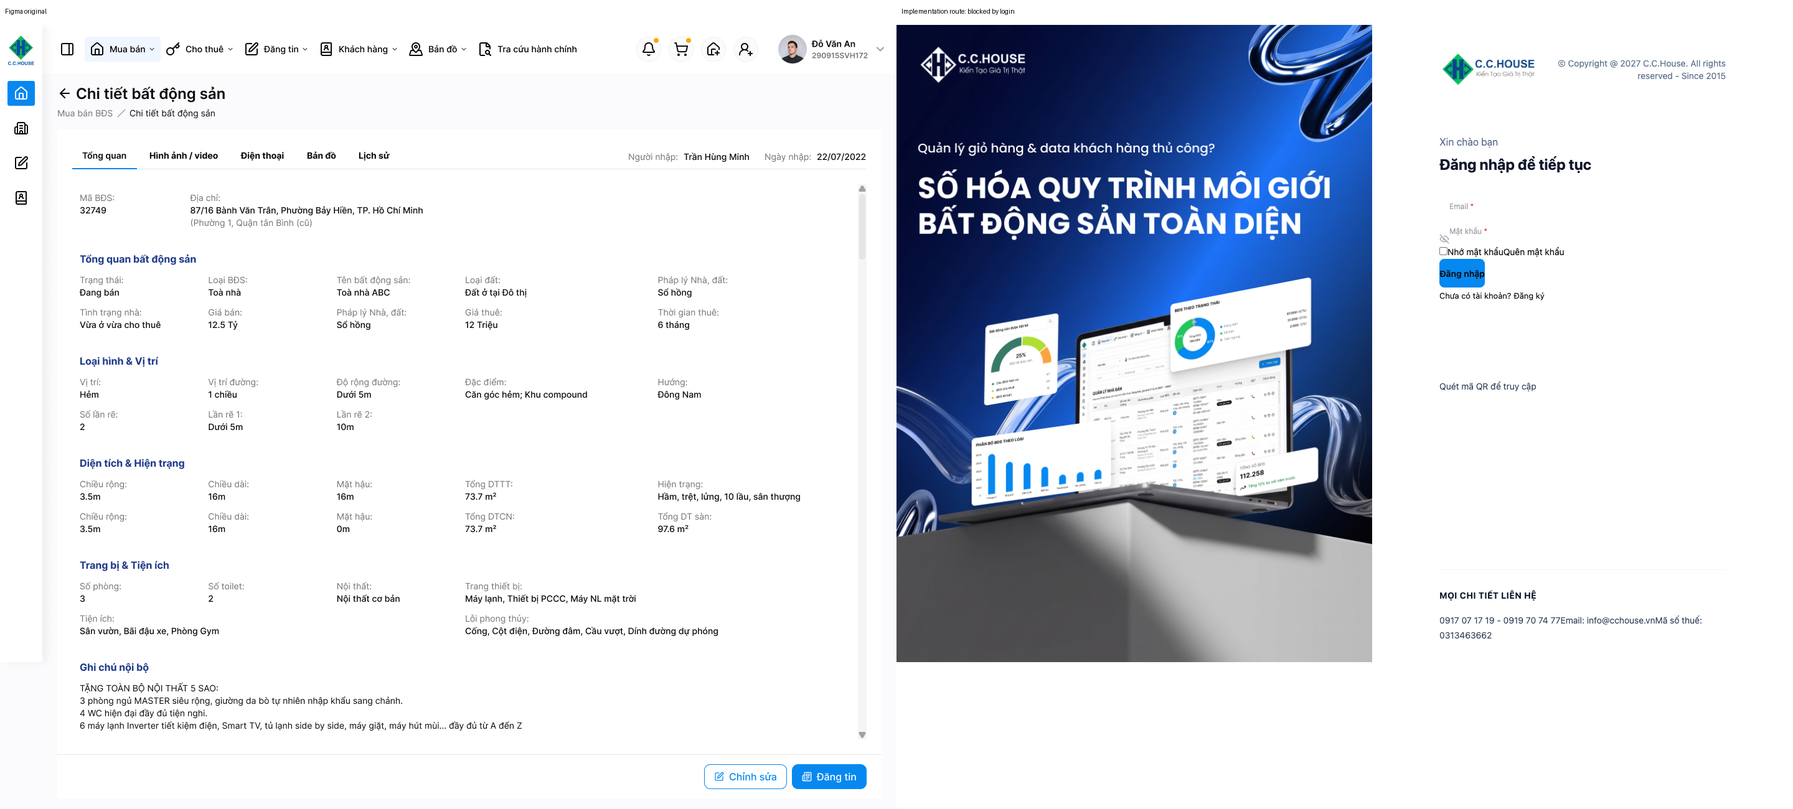
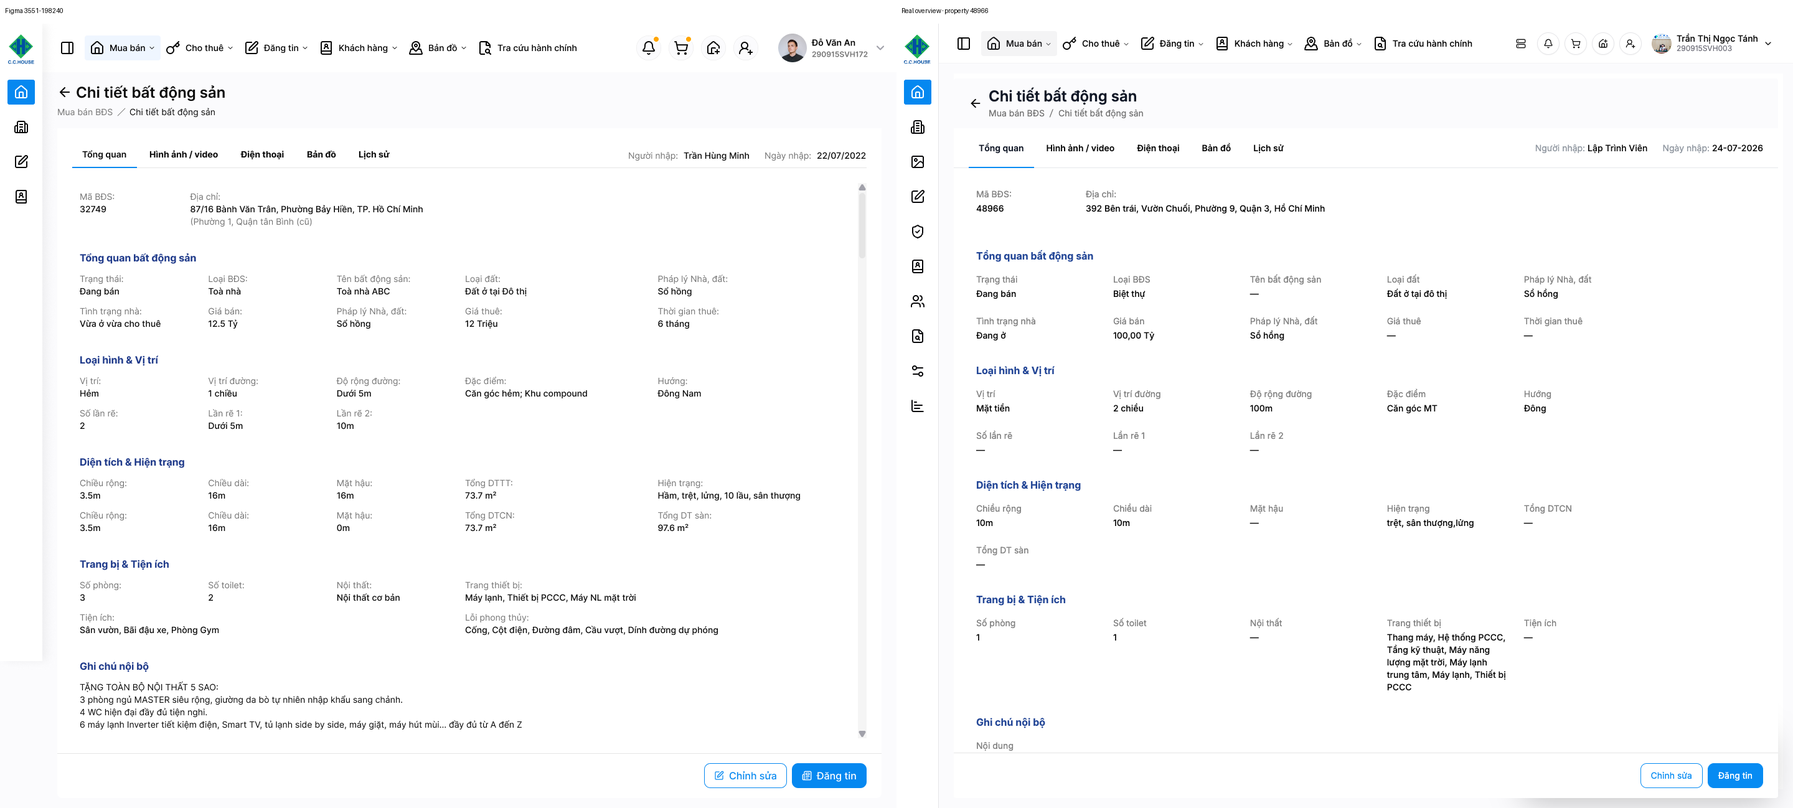
Deploy 23-11-2026 01:28:28

diff --git a/src/lib/components/admin/property/detail-dialog/index.tsx b/src/lib/components/admin/property/detail-dialog/index.tsx
@@ -1,13 +1,11 @@
 import { Modal as LucideModal } from "@/lib/components/antd-lucide";
 import {Alert as LucideAlert } from "@/lib/components/antd-lucide";
-import { Spin } from "antd";
+import { Spin, Tooltip } from "antd";
 import { ArrowLeft, X } from "lucide-react";
 import { useRouter } from "next/navigation";
-import { useSession } from "next-auth/react";
 import { useEffect, useState, type ReactNode } from "react";
 import ReactPlayer from "react-player";
 
-import RenderPhone from "@/lib/components/shared/CustomRender/RenderPhone";
 import HistoryTree from "@/lib/components/shared/HistoryTree";
 import ImagesPreview from "@/lib/components/shared/ImagesPreview";
 import { ETableName } from "@/lib/core/enum";
@@ -17,7 +15,10 @@ import type { IPropResponse } from "@/lib/interfaces/Property/IProp";
 import imagesApi from "@/services/api/imagesApi";
 import { fileServices } from "@/services/api/services/fileServices";
 import PropertyMap from "@/lib/pages/property/prop-detail/components/property-map";
+import ContactSection from "@/lib/pages/property/prop-detail/components/contact-section";
 import WarehouseSection from "@/lib/pages/property/prop-detail/components/warehouse-section";
+import { getEnumName } from "@/lib/pages/property/prop-detail/detail-utils";
+import { useAdminContext } from "@/lib/stored";
 import { AppRoutes } from "@/lib/core/configs/appRoutes";
 import "@/lib/pages/property/prop-detail/property-detail.css";
 import "./property-detail-dialog.css";
@@ -87,17 +88,10 @@ const PropertyDetailDialog = ({
   onEdit,
 }: Prop) => {
   const router = useRouter();
-  const { data: session } = useSession();
+  const { enumList } = useAdminContext();
   const [images, setImages] = useState<IMyUploadFile[]>([]);
   const [activeTab, setActiveTab] = useState<DetailTab>("overview");
   const propAddress = data?.PropAddress;
-  const canViewPhone =
-    Boolean(data) && (
-      [1, 2].includes(session?.user.RoleId ?? 0) ||
-      session?.user.Id === data?.UserAdminId ||
-      !data?.IsHidePhone
-    );
-  const phones = data?.CustomerPhone?.toString().split(",").filter(Boolean) ?? [];
 
   useEffect(() => {
     let active = true;
@@ -185,7 +179,7 @@ const PropertyDetailDialog = ({
       ) : data && propAddress ? (
       <div className="property-detail-dialog">
         <header className="property-detail-dialog-header">
-          <button type="button" onClick={onClose} aria-label="Quay lại danh sách"><ArrowLeft size={22} /></button>
+          <Tooltip title="Quay lại danh sách"><button type="button" onClick={onClose} aria-label="Quay lại danh sách"><ArrowLeft size={22} /></button></Tooltip>
           <div><h2>Chi tiết bất động sản</h2><span>Mua bán BĐS ／ Chi tiết bất động sản</span></div>
         </header>
 
@@ -221,26 +215,28 @@ const PropertyDetailDialog = ({
                 fields={[
                   { label: "Trạng thái", value: data.StatusName },
                   { label: "Loại BĐS", value: propAddress.PropTypeName },
+                  { label: "Tên bất động sản", value: propAddress.PropName },
+                  { label: "Loại đất", value: getEnumName(enumList.UsageLaw, propAddress.UsageLaw) },
+                  { label: "Pháp lý Nhà, đất", value: propAddress.DisplayLaws },
                   { label: "Tình trạng nhà", value: propAddress.StatusUsageName },
                   { label: data.TransType === 2 ? "Giá thuê" : "Giá bán", value: data.DisplayPrice },
-                  { label: "Diện tích", value: data.Area ? `${data.Area}m²` : undefined },
-                  { label: "Vị trí", value: propAddress.LocationName },
-                  { label: "Tên bất động sản", value: propAddress.PropName },
+                  { label: "Pháp lý Nhà, đất", value: propAddress.DisplayLaws },
+                  { label: "Giá thuê", value: propAddress.DisplayPriceForRent },
+                  { label: "Thời gian thuê", value: propAddress.EndTimeRent },
                 ]}
               />
 
               <DetailSection
                 title="Loại hình & Vị trí"
                 fields={[
-                  { label: "Đặc điểm", value: propAddress.LocationFeatureName },
-                  { label: "Độ rộng đường", value: propAddress.StreetWidth ? `${propAddress.StreetWidth}m` : undefined },
-                  { label: "Cách mặt tiền", value: propAddress.DistanceToFont ? `${propAddress.DistanceToFont}m` : undefined },
+                  { label: "Vị trí", value: propAddress.LocationName },
                   { label: "Vị trí đường", value: propAddress.IsOneWay ? "1 chiều" : "2 chiều" },
+                  { label: "Độ rộng đường", value: propAddress.StreetWidth ? `${propAddress.StreetWidth}m` : undefined },
+                  { label: "Đặc điểm", value: propAddress.LocationFeatureName },
                   { label: "Hướng", value: propAddress.DirectionName },
                   { label: "Số lần rẽ", value: propAddress.AlleyTurns },
-                  { label: "Lân cận", value: propAddress.AlleyValues },
-                  { label: "Loại đất", value: propAddress.UsageLaw },
-                  { label: "Pháp lý nhà, đất", value: propAddress.DisplayLaws },
+                  { label: "Lần rẽ 1", value: propAddress.AlleyValues?.[0] },
+                  { label: "Lần rẽ 2", value: propAddress.AlleyValues?.[1] },
                 ]}
               />
 
@@ -264,8 +260,6 @@ const PropertyDetailDialog = ({
                   { label: "Nội thất", value: data.Furniture },
                   { label: "Trang thiết bị", value: data.DisplayEquipments },
                   { label: "Tiện ích", value: data.DisplayUtilities },
-                  { label: "Giá thuê", value: propAddress.DisplayPriceForRent },
-                  { label: "Thời gian thuê", value: propAddress.EndTimeRent },
                 ]}
               />
 
@@ -291,20 +285,17 @@ const PropertyDetailDialog = ({
 
           {activeTab === "phone" && (
             <DetailSection title="Liên hệ">
-              <div className="property-detail-dialog-phone">
-                {canViewPhone ? (
-                  phones.length ? <RenderPhone phones={phones} /> : <span>Chưa có số điện thoại</span>
-                ) : (
-                  <span>SĐT đang bị ẩn, vui lòng liên hệ quản lý</span>
-                )}
+              <div className="property-detail property-detail-dialog-phone">
+                <ContactSection data={data} />
+                <div className="pd-contact-row"><span className="pd-label">Hoa hồng</span><span className="pd-value">{display(data.Commission) || "—"}</span></div>
+                <WarehouseSection data={data} defaultExpanded compact />
               </div>
-              <WarehouseSection data={data} />
             </DetailSection>
           )}
 
           {activeTab === "map" && (
             <DetailSection title="Bản đồ xem vị trí">
-              <PropertyMap data={data} height={568} />
+              <div className="property-detail"><PropertyMap data={data} height={568} /></div>
             </DetailSection>
           )}
 

diff --git a/src/lib/components/admin/property/detail-dialog/property-detail-dialog.css b/src/lib/components/admin/property/detail-dialog/property-detail-dialog.css
@@ -1,6 +1,6 @@
 /* Property detail overlay follows Figma node 2350-128765. */
 .property-detail-dialog-root .ant-modal-mask {
-  background: rgba(17, 24, 39, 0.34) !important;
+  background: transparent !important;
 }
 
 .property-detail-dialog-modal {
@@ -243,11 +243,14 @@
   .property-detail-dialog-toolbar {
     flex-direction: column;
     gap: 0;
+    min-height: 0;
     padding: 0 12px 8px;
   }
 
   .property-detail-dialog-tabs {
     gap: 8px;
+    min-height: 48px;
+    flex-shrink: 0;
     overflow-x: auto;
   }
 
@@ -280,11 +283,11 @@
 }
 
 /* Full detail states from the property design frames. */
-.property-detail-dialog-modal { top: 88px; width: calc(100vw - 116px) !important; max-width: 1324px; }
-.property-detail-dialog-modal .ant-modal-content { max-height: calc(100dvh - 104px); border-radius: 4px; box-shadow: none; }
-.property-detail-dialog-modal .ant-modal-body { max-height: calc(100dvh - 104px); }
+.property-detail-dialog-modal { top: 88px; width: calc(100vw - 116px) !important; max-width: 1324px; margin-left: 92px; }
+.property-detail-dialog-modal .ant-modal-content { height: calc(100dvh - 104px); max-height: calc(100dvh - 104px); border-radius: 4px; box-shadow: none; }
+.property-detail-dialog-modal .ant-modal-body { height: 100%; max-height: calc(100dvh - 104px); }
 .property-detail-dialog-modal .ant-modal-close { display: none; }
-.property-detail-dialog { max-height: calc(100dvh - 104px); color: #0a0a0a; }
+.property-detail-dialog { height: 100%; max-height: calc(100dvh - 104px); color: #0a0a0a; }
 .property-detail-dialog-header { min-height: 80px; padding: 12px 24px; gap: 10px; background: #fbfbfd; border: 0; }
 .property-detail-dialog-header button { border: 0; background: transparent; cursor: pointer; padding: 0; }
 .property-detail-dialog-header h2 { font-size: 24px; line-height: 32px; font-weight: 600; }
@@ -301,21 +304,36 @@
 .property-detail-dialog-scroll { flex: 1 1 auto; max-height: none; padding: 36px; }
 .property-detail-dialog-overview { gap: 34px; }
 .property-detail-dialog-section h3 { color: #244797; font-size: 16px; line-height: 24px; margin-bottom: 16px; }
-.property-detail-dialog-grid { width: 100%; grid-template-columns: repeat(5,minmax(0,1fr)); column-gap: 24px; row-gap: 24px; }
+.property-detail-dialog-grid { width: 100%; grid-template-columns: repeat(4,minmax(0,1fr)) minmax(0,1.9fr); column-gap: 24px; row-gap: 24px; }
 .property-detail-dialog-footer { display: flex; justify-content: flex-end; gap: 8px; padding: 16px 24px; border-top: 1px solid #e5e5e5; }
+.property-detail-dialog-header, .property-detail-dialog-toolbar, .property-detail-dialog-summary, .property-detail-dialog-footer { flex-shrink: 0; }
 .property-detail-dialog-footer button { border: 1px solid #078bf2; border-radius: 10px; color: #078bf2; background: #fff; padding: 8px 16px; cursor: pointer; }
 .property-detail-dialog-footer button:last-child { color: #fff; background: #078bf2; }
-.property-detail-dialog-phone { font-size: 14px; }
+.property-detail-dialog-phone { display: grid; grid-template-columns: 340px 1fr; gap: 12px 16px; font-size: 14px; }
+.property-detail-dialog-phone > div:first-child { display: contents; }
+.property-detail-dialog-phone > div:first-child .pd-contact-row:first-child { grid-column: 1; grid-row: 1; }
+.property-detail-dialog-phone > div:first-child .pd-contact-row:nth-child(2) { grid-column: 1 / -1; grid-row: 2; }
+.property-detail-dialog-phone > .pd-contact-row { grid-column: 2; grid-row: 1; }
+.property-detail-dialog-phone > .pd-warehouse { grid-column: 1 / -1; grid-row: 3; }
 .property-detail-dialog-history { font-size: 14px; }
-.property-detail-dialog-grid:has(.pd-map-frame), .property-detail-dialog-grid:has(.pd-warehouse) { display: block; }
+.property-detail-dialog .pd-map-box { top: 160px; left: 8px; width: min(90%, 376px); transform: none; }
+.property-detail-dialog-grid:has(.pd-map-frame), .property-detail-dialog-grid:has(.pd-warehouse), .property-detail-dialog-grid:has(.property-detail-dialog-history) { display: block; }
 @media (max-width: 767px) {
   .property-detail-dialog-modal { top: 0; width: 100vw !important; max-width: 100vw; margin: 0; }
+  .property-detail-dialog-root .ant-modal-mask { background: rgba(0,0,0,.3) !important; }
   .property-detail-dialog-modal .ant-modal-content, .property-detail-dialog-modal .ant-modal-body, .property-detail-dialog { max-height: 100dvh; }
   .property-detail-dialog-header { min-height: 70px; padding: 10px 16px; }
   .property-detail-dialog-header h2 { font-size: 18px; line-height: 26px; }
-  .property-detail-dialog-toolbar { padding: 0 12px 8px; }
+  .property-detail-dialog-toolbar { min-height: 0; height: auto; flex-direction: column; align-items: stretch; padding: 0 12px 8px; }
+  .property-detail-dialog-tabs { min-height: 48px; flex-shrink: 0; }
   .property-detail-dialog-tabs button { padding: 8px; }
+  .property-detail-dialog-audit { min-height: 24px; gap: 4px 12px; flex-wrap: wrap; font-size: 11px; }
   .property-detail-dialog-summary { grid-template-columns: 90px 1fr; padding: 20px 16px; }
   .property-detail-dialog-scroll { padding: 20px 16px; }
   .property-detail-dialog-grid { grid-template-columns: repeat(2,minmax(0,1fr)); gap: 16px; }
+  .property-detail-dialog-phone { grid-template-columns: 1fr; }
+  .property-detail-dialog-phone > div:first-child .pd-contact-row:first-child,
+  .property-detail-dialog-phone > div:first-child .pd-contact-row:nth-child(2),
+  .property-detail-dialog-phone > .pd-contact-row,
+  .property-detail-dialog-phone > .pd-warehouse { grid-column: 1; grid-row: auto; }
 }

diff --git a/src/lib/pages/property/prop-detail/components/warehouse-section.tsx b/src/lib/pages/property/prop-detail/components/warehouse-section.tsx
@@ -1,7 +1,7 @@
 "use client";
 import { Collapse as LucideCollapse } from "@/lib/components/antd-lucide";
+import { Table } from "antd";
 
-import { Collapse } from "antd";
 import Link from "next/link";
 import { useEffect, useState } from "react";
 import PropertySubTable from "@/lib/components/admin/property/table/subTable";
@@ -12,9 +12,11 @@ import propertyApi from "@/services/api/property/propertyApi";
 
 type Props = {
   data: IPropResponse;
+  defaultExpanded?: boolean;
+  compact?: boolean;
 };
 
-const WarehouseSection = ({ data }: Props) => {
+const WarehouseSection = ({ data, defaultExpanded = false, compact = false }: Props) => {
   const [propOfCustomer, setPropOfCustomer] = useState<IPropResponse[]>([]);
   const [loading, setLoading] = useState(false);
   const [totalRow, setTotalRow] = useState(0);
@@ -53,6 +55,7 @@ const WarehouseSection = ({ data }: Props) => {
       ghost
       size="small"
       className="pd-warehouse"
+      defaultActiveKey={defaultExpanded ? ["warehouse"] : []}
       items={[
         {
           key: "warehouse",
@@ -67,7 +70,23 @@ const WarehouseSection = ({ data }: Props) => {
             </Link>
           ),
           children: (
-            <PropertySubTable data={propOfCustomer} loading={loading} />
+            compact ? <Table
+              rowKey="Id"
+              dataSource={propOfCustomer}
+              loading={loading}
+              pagination={false}
+              scroll={{ x: 900 }}
+              columns={[
+                { title: "Mã", dataIndex: "Id", render: (id: number, record: IPropResponse) => <Link href={`${AppRoutes.property.url}/${id}?TransType=${record.TransType}`}>{id}</Link> },
+                { title: "Giá", dataIndex: "DisplayPrice" },
+                { title: "Địa chỉ", dataIndex: ["PropAddress", "DisplayAddress"] },
+                { title: "Loại BĐS", dataIndex: ["PropAddress", "PropTypeName"] },
+                { title: "Kết cấu", dataIndex: "CustomDisplayStructures" },
+                { title: "Diện tích", dataIndex: "Area", render: (area: number) => area ? `${area}m²` : "—" },
+                { title: "Vị trí", dataIndex: ["PropAddress", "LocationName"] },
+                { title: "Trạng thái", dataIndex: "StatusName" },
+              ]}
+            /> : <PropertySubTable data={propOfCustomer} loading={loading} />
           ),
         },
       ]}

diff --git a/src/lib/pages/property/prop-detail/components/property-map.tsx b/src/lib/pages/property/prop-detail/components/property-map.tsx
@@ -2,6 +2,7 @@
 
 import { Tag } from "antd";
 import { IPropResponse } from "@/lib/interfaces/Property/IProp";
+import { hasMapCoordinates } from "@/lib/core/utils/map-coordinates";
 import { formatPropertyAddress } from "../detail-utils";
 
 type Props = {
@@ -11,8 +12,10 @@ type Props = {
 
 const PropertyMap = ({ data, height = 420 }: Props) => {
   const placeId = data.PropAddress.PlaceId;
+  const { Lat, Lng } = data.PropAddress;
+  const hasCoordinates = hasMapCoordinates(data.PropAddress);
 
-  if (!placeId) {
+  if (!placeId && !hasCoordinates) {
     return (
       <span className="pd-empty-text block py-10 text-center">
         Chưa có vị trí bản đồ
@@ -20,13 +23,16 @@ const PropertyMap = ({ data, height = 420 }: Props) => {
     );
   }
 
+  // shortcut: OSM tiles differ from the design basemap; switch when a matching map source is configured.
   return (
     <div className="pd-map-frame relative">
       <iframe
         title={`map-${data.Id}`}
         height={height}
         width="100%"
-        src={`https://maps.goong.io/?pid=${placeId}`}
+        src={placeId
+          ? `https://maps.goong.io/?pid=${placeId}`
+          : `https://www.openstreetmap.org/export/embed.html?bbox=${Lng! - 0.015}%2C${Lat! - 0.015}%2C${Lng! + 0.015}%2C${Lat! + 0.015}&layer=mapnik&marker=${Lat}%2C${Lng}`}
         className="block border-0"
       />
       <div className="pd-map-box">

diff --git a/src/lib/pages/property/prop-detail/index.tsx b/src/lib/pages/property/prop-detail/index.tsx
@@ -60,7 +60,7 @@ const PropertyFormModal = ({
       return;
     }
 
-    setIsEditing(false);
+    setIsEditing(true);
 
     const fetchAccessInfo = async () => {
       setLoading(true);
@@ -137,6 +137,7 @@ const PropertyFormModal = ({
       open={open}
       width="95vw"
       className="property-detail-modal"
+      rootClassName="property-detail-form-root"
       style={{ top: 16, maxWidth: 1400 }}
       styles={{ body: { maxHeight: "calc(100vh - 180px)", overflowY: "auto" } }}
       onCancel={onClose}

diff --git a/src/lib/pages/property/prop-detail/property-detail.css b/src/lib/pages/property/prop-detail/property-detail.css
@@ -9,6 +9,10 @@
   overflow: hidden;
 }
 
+.property-detail-form-root .ant-modal-mask {
+  background: rgba(0, 0, 0, 0.4);
+}
+
 .property-detail-modal .ant-modal-header {
   padding: 16px 24px;
   margin-bottom: 0;

diff --git a/evidence/real-estate/report.md b/evidence/real-estate/report.md
@@ -2,26 +2,51 @@
 
 ## Changed files
 - `src/lib/components/admin/property/detail-dialog/index.tsx`: map tab, related properties, header, edit and post actions.
+- Contact tab now reuses the existing masked phone and reveal control, and displays the record's commission.
 - `src/lib/components/admin/property/detail-dialog/property-detail-dialog.css`: desktop and mobile detail layout.
 - `src/lib/pages/property/index.tsx`: opens the existing edit flow from the detail view.
 - `src/lib/pages/property/prop-detail/components/warehouse-section.tsx`: handles missing phone and failed related-property requests.
+- `src/lib/pages/property/prop-detail/index.tsx`: opens the edit form immediately after the edit action.
+- `src/lib/pages/property/prop-detail/components/property-map.tsx`: renders a coordinate map when a place ID is absent.
+- `src/lib/pages/property/prop-detail/property-detail.css`: gives the edit modal the Figma 40% scrim.
 
 ## Figma mapping
 - `3551:198240`: property detail overview → `PropertyDetailDialog` overview.
 - `3555:200946`: contact and related properties → phone tab and `WarehouseSection`.
 - `3555:202419`: location map → map tab and `PropertyMap`.
 - `3555:203007`: edit history → history tab and `HistoryTree`.
-- `2089:105771`, `3151:149405`: scrim primitives → modal mask.
-- `2163:122729`: tooltip instruction → existing icon labels; no standalone screen.
+- `2089:105771`: 40% scrim primitive → edit dialog mask, verified `rgba(0, 0, 0, 0.4)`.
+- `3151:149405`: 30% scrim primitive → history dialog mask, verified `rgba(0, 0, 0, 0.3)`.
+- `2163:122729`: tooltip instruction → hover tooltip on the detail back icon, verified visible.
 
 ## Checks
-- Type check: PASS (`npx tsc --noEmit`, after latest changes).
-- Production build: PASS (`npx next build`, before the final small empty-phone fix), with existing Edge Runtime warnings from `jose`.
-- Relevant tests: PASS (8 tests in `media-history.test.cjs` and `admin-ui-fixtures.test.cjs`, after latest changes).
-- Browser route: executed with system Chrome at 1440 × 1024. `/admin/property?TransType=1` redirected to `/login` without a session.
-- Authorized login: executed in Chrome. The credentials callback returned `CredentialsSignin` because `/api/proxy/AdminAuth` returned **502** with “Không thể kết nối tới máy chủ.” No authenticated session was established. Protected property tabs and interactions: BLOCKED, not PASS.
-- Seven side-by-side files are saved as `comparison-<node-id>.png`. The right side shows the observed login redirect for each frame; they are blocked-run evidence, not visual matches. No visual difference fixes or recapture of authenticated states could be completed.
+- Authenticated route and real records: PASS using the alternate authorized development account. `/admin/property?TransType=1` returned 11 sale records; record `48966` opened successfully. The account was logged out after testing.
+- Overview tab: PASS, real property fields rendered.
+- Contact tab: PASS, masked phone, reveal/hide toggle, and three related-property rows rendered. No phone value was logged.
+- Map tab: PASS for navigation and the no-location state. A browser-only override added coordinates to record `48966`; the actual UI rendered OpenStreetMap and its zoom control changed the screenshot (mean pixel difference 34.5). **Real GPS record: UNVERIFIED** because the accessible development records have no usable coordinates.
+- History tab: PASS with real record `48967`: the history endpoint returned one entry, rendered as a full-width change card. Record `48966` also passed the empty-history state.
+- Edit: PASS, opened the existing form with 55 inputs; nothing was saved.
+- Post: PASS, navigated to `/admin/feed/add?propId=48966`; nothing was submitted.
+- Mobile: PASS at 390 × 844, all five tabs render, no horizontal overflow or audit/summary overlap.
+- Production build: PASS (`npx next build`) after all changes.
+- Type check: PASS (`npx tsc --noEmit`).
+- Relevant lint: PASS (`npx biome lint` on four changed TSX files).
+- Relevant tests: PASS (8/8 in `media-history.test.cjs` and `admin-ui-fixtures.test.cjs`).
+- Browser E2E details: `e2e-results.json` and `action-results.json`. Chrome was used for every browser assertion.
+- Remaining-gap E2E details: `remaining-verification.json`. No backend data was changed.
+
+## Visual evidence
+- Seven original frames: `figma-<node-id>.png`.
+- Four detail states: `implementation-overview.png`, `implementation-phone.png`, `implementation-map-coordinate-fixture.png`, `implementation-history.png`. Overview, phone and history use real records; the populated map screenshot uses the browser-only coordinate override.
+- Seven side-by-side comparisons: `comparison-<node-id>.png`. All right sides are browser captures after visual fixes. The scrim and tooltip nodes are design primitives, so their comparisons use the actual dialog or hover context and are not pixel-equivalent full-screen comparisons.
+- Primitive context captures: `implementation-scrim-edit.png`, `implementation-scrim-history.png`, `implementation-tooltip.png`.
+- Map interaction captures: `map-before-zoom.png`, `map-after-zoom.png`.
+- Additional captures: `implementation-mobile.png`, `edit-open.png`, `post-navigation.png`.
+- Mobile contact capture: `implementation-phone-mobile.png` (no horizontal overflow).
 
 ## Remaining issues
-- Live authenticated E2E and visual verification for the four detail states remain outstanding. Development API connectivity is required. `login-result.png` captures the sign-in attempt. The seven comparisons show the login redirect, not authenticated matches.
-- Figma's two scrim nodes and tooltip note are design primitives, not navigable app screens.
+- No real GPS record was found: the coordinate endpoint returned ten active sale records and zero active rentals; the accessible sale detail records had no usable `Lat`/`Lng` or place ID, and other queried statuses yielded no coordinate-bearing records. The populated map comparison uses browser-only coordinates, so a real-data map remains unverified.
+- The coordinate fallback uses OpenStreetMap tiles, which differ visibly from Figma's map imagery. The map position, marker and zoom behavior were checked in the browser-only override; matching the Figma basemap requires a matching map provider.
+- Figma shows two history entries; this development record contains one. The rendered card and its content are verified, but the second-entry layout cannot be checked against real data here.
+- Original Figma records and this development database have different field values; text and imagery cannot match exactly.
+- The first test account remained locked to an earlier browser session. The alternate account completed E2E and was logged out.
